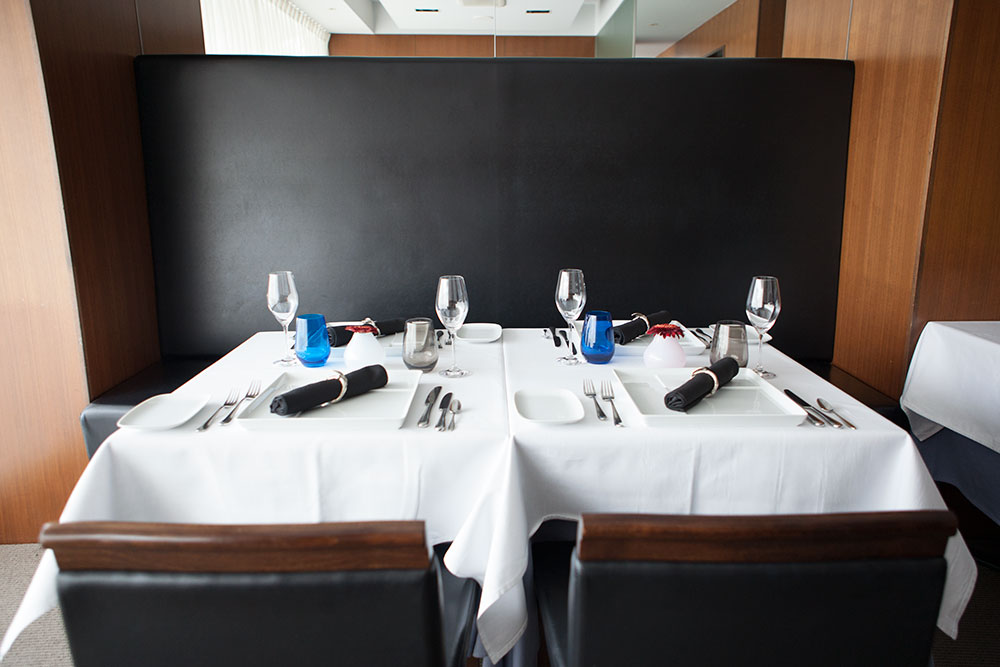
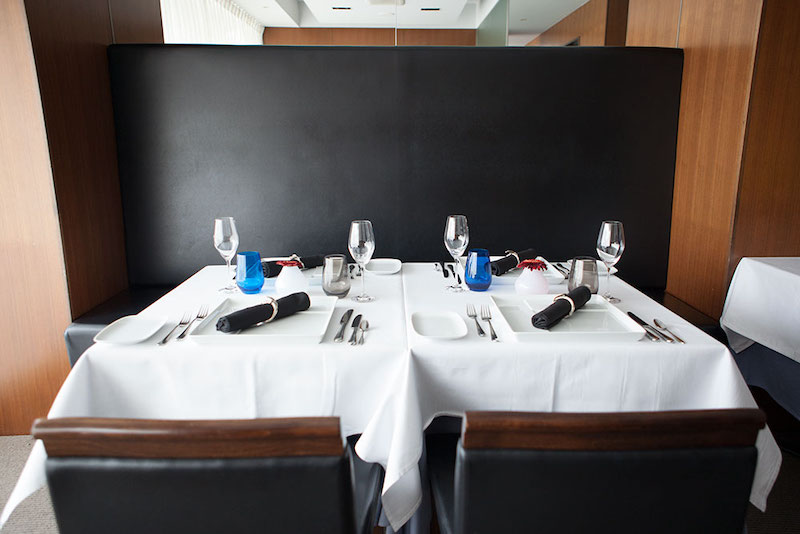
chore(): サイズを変更

diff --git a/src/template/complete.html b/src/template/complete.html
@@ -1,77 +1,77 @@
 <!DOCTYPE html>
 <html lang="ja">
-<head>
-  <meta charset="UTF-8" />
-  <title>ル ベナトン｜西宮・夙川フレンチ</title>
-  <meta
-          name="description"
-          content="西宮・夙川のフレンチレストラン「ル ベナトン」。ミシュランガイド兵庫版掲載店。ジビエ料理、ブルゴーニュワイン。フランス「食の都」ボーヌ仕込みの味をご堪能ください。"
-  />
-  <meta
-          name="keywords"
-          content="夙川フレンチ,西宮フレンチ,兵庫フレンチ,神戸フレンチ,阪神間フランチ,ブルゴーニュワイン,ブルゴーニュ料理,ブルゴーニュ,ボーヌ,黄金の丘,神戸ジビエ,西宮ジビエ,関西フレンチ,関西ジビエ,ジビエ料理,夙川ランチ,夙川ディナー,西宮ランチ,西宮ディナー,神戸ランチ,神戸ディナー"
-  />
-  <meta
-          name="viewport"
-          content="width=device-width,initial-scale=1.0,minimum-scale=1.0,maximum-scale=5.0,user-scalable=yes"
-  />
-  <meta name="format-detection" content="telephone=no" />
-  <meta name="google-site-verification" content="sf9tNhZ_bJR_c-OXC3qO63Jy3NWsoq_70XZmgZAcYQg" />
+  <head>
+    <meta charset="UTF-8" />
+    <title>ル ベナトン｜西宮・夙川フレンチ</title>
+    <meta
+      name="description"
+      content="西宮・夙川のフレンチレストラン「ル ベナトン」。ミシュランガイド兵庫版掲載店。ジビエ料理、ブルゴーニュワイン。フランス「食の都」ボーヌ仕込みの味をご堪能ください。"
+    />
+    <meta
+      name="keywords"
+      content="夙川フレンチ,西宮フレンチ,兵庫フレンチ,神戸フレンチ,阪神間フランチ,ブルゴーニュワイン,ブルゴーニュ料理,ブルゴーニュ,ボーヌ,黄金の丘,神戸ジビエ,西宮ジビエ,関西フレンチ,関西ジビエ,ジビエ料理,夙川ランチ,夙川ディナー,西宮ランチ,西宮ディナー,神戸ランチ,神戸ディナー"
+    />
+    <meta
+      name="viewport"
+      content="width=device-width,initial-scale=1.0,minimum-scale=1.0,maximum-scale=5.0,user-scalable=yes"
+    />
+    <meta name="format-detection" content="telephone=no" />
+    <meta name="google-site-verification" content="sf9tNhZ_bJR_c-OXC3qO63Jy3NWsoq_70XZmgZAcYQg" />
 
-  <meta name="twitter:card" content="summary" />
-  <meta name="twitter:title" content="ル ベナトン｜西宮・夙川フレンチ" />
-  <meta
-          name="twitter:description"
-          content="西宮・夙川のフレンチレストラン「ル ベナトン」。ミシュランガイド兵庫版掲載店。ジビエ料理、ブルゴーニュワイン。フランス「食の都」ボーヌ仕込みの味をご堪能ください。"
-  />
-  <meta name="twitter:image" content="https://www.benaton.net/images/dinner2.jpg" />
+    <meta name="twitter:card" content="summary" />
+    <meta name="twitter:title" content="ル ベナトン｜西宮・夙川フレンチ" />
+    <meta
+      name="twitter:description"
+      content="西宮・夙川のフレンチレストラン「ル ベナトン」。ミシュランガイド兵庫版掲載店。ジビエ料理、ブルゴーニュワイン。フランス「食の都」ボーヌ仕込みの味をご堪能ください。"
+    />
+    <meta name="twitter:image" content="https://www.benaton.net/images/dinner2.jpg" />
 
-  <meta property="og:title" content="ル ベナトン｜西宮・夙川フレンチ" />
-  <meta
-          name="description"
-          content="西宮・夙川のフレンチレストラン「ル ベナトン」。ミシュランガイド兵庫版掲載店。ジビエ料理、ブルゴーニュワイン。フランス「食の都」ボーヌ仕込みの味をご堪能ください。"
-  />
-  <meta
-          name="keywords"
-          content="夙川フレンチ,西宮フレンチ,兵庫フレンチ,神戸フレンチ,阪神間フランチ,ブルゴーニュワイン,ブルゴーニュ料理,ブルゴーニュ,ボーヌ,黄金の丘,神戸ジビエ,西宮ジビエ,関西フレンチ,関西ジビエ,ジビエ料理,夙川ランチ,夙川ディナー,西宮ランチ,西宮ディナー,神戸ランチ,神戸ディナー"
-  />
+    <meta property="og:title" content="ル ベナトン｜西宮・夙川フレンチ" />
+    <meta
+      name="description"
+      content="西宮・夙川のフレンチレストラン「ル ベナトン」。ミシュランガイド兵庫版掲載店。ジビエ料理、ブルゴーニュワイン。フランス「食の都」ボーヌ仕込みの味をご堪能ください。"
+    />
+    <meta
+      name="keywords"
+      content="夙川フレンチ,西宮フレンチ,兵庫フレンチ,神戸フレンチ,阪神間フランチ,ブルゴーニュワイン,ブルゴーニュ料理,ブルゴーニュ,ボーヌ,黄金の丘,神戸ジビエ,西宮ジビエ,関西フレンチ,関西ジビエ,ジビエ料理,夙川ランチ,夙川ディナー,西宮ランチ,西宮ディナー,神戸ランチ,神戸ディナー"
+    />
 
-  <meta property="og:type" content="article" />
-  <meta property="og:url" content="https://www.benaton.net/images/dinner2.jpg" />
-  <meta property="og:site_name" content="ル ベナトン｜西宮・夙川フレンチ" />
-  <meta
-          property="og:description"
-          content="西宮・夙川のフレンチレストラン「ル ベナトン」。ミシュランガイド兵庫版掲載店。ジビエ料理、ブルゴーニュワイン。フランス「食の都」ボーヌ仕込みの味をご堪能ください。"
-  />
-  <meta property="og:image" content="https://www.benaton.net/images/dinner2.jpg" />
-  <meta property="og:image:width" content="1200" />
-  <meta property="og:image:height" content="630" />
-  <meta name="robots" content="noindex">
+    <meta property="og:type" content="article" />
+    <meta property="og:url" content="https://www.benaton.net/images/dinner2.jpg" />
+    <meta property="og:site_name" content="ル ベナトン｜西宮・夙川フレンチ" />
+    <meta
+      property="og:description"
+      content="西宮・夙川のフレンチレストラン「ル ベナトン」。ミシュランガイド兵庫版掲載店。ジビエ料理、ブルゴーニュワイン。フランス「食の都」ボーヌ仕込みの味をご堪能ください。"
+    />
+    <meta property="og:image" content="https://www.benaton.net/images/dinner2.jpg" />
+    <meta property="og:image:width" content="1200" />
+    <meta property="og:image:height" content="630" />
+    <meta name="robots" content="noindex" />
 
-  <link rel="stylesheet" type="text/css" href="css/normalize.css" />
-  <link rel="stylesheet" type="text/css" href="css/module.css" />
-  <link rel="stylesheet" type="text/css" href="css/styles.css" />
-  <link rel="stylesheet" type="text/css" href="css/script.css" />
-  <link rel="icon" type="image/png" href="favicon.png" sizes="32x32" />
+    <link rel="stylesheet" type="text/css" href="css/normalize.css" />
+    <link rel="stylesheet" type="text/css" href="css/module.css" />
+    <link rel="stylesheet" type="text/css" href="css/styles.css" />
+    <link rel="stylesheet" type="text/css" href="css/script.css" />
+    <link rel="icon" type="image/png" href="favicon.png" sizes="32x32" />
 
-  <script async src="https://www.googletagmanager.com/gtag/js?id=UA-99005030-1"></script>
-  <script>
-    window.dataLayer = window.dataLayer || [];
-    function gtag() {
-      dataLayer.push(arguments);
-    }
-    gtag('js', new Date());
-    gtag('config', 'UA-99005030-1');
-  </script>
-  <script src="index.js" defer></script>
-</head>
+    <script async src="https://www.googletagmanager.com/gtag/js?id=UA-99005030-1"></script>
+    <script>
+      window.dataLayer = window.dataLayer || [];
+      function gtag() {
+        dataLayer.push(arguments);
+      }
+      gtag('js', new Date());
+      gtag('config', 'UA-99005030-1');
+    </script>
+    <script src="index.js" defer></script>
+  </head>
 
-<body>
-<header>
-  <div class="logo">
-    <a href="index.html"><img src="images/logo.png" alt="ル ベナトン｜西宮・夙川フレンチ" /></a>
-  </div>
-</header>
+  <body>
+    <header>
+      <div class="logo">
+        <a href="index.html"><img src="images/logo.png" alt="ル ベナトン｜西宮・夙川フレンチ" /></a>
+      </div>
+    </header>
     <main>
       <section>
         <div class="wrap">

diff --git a/src/template/index.html b/src/template/index.html
@@ -713,7 +713,8 @@
               <h3>本格「ボーヌ」仕込みの味<br />ヨーロッパと日本の食材で地元・夙川で提供いたします</h3>
               <div class="parenthesis">
                 <p>
-                  フランスのブルゴーニュの食の都「ボーヌ」の星付きレストラン「ル ベナトン」での4年間の修業を経て、2008年に生まれ育った夙川に、その名前を引き継いだ自らの店をオープンいたしました。ブルゴーニュはワインの名産地である黄金の丘でも知られ、ボーヌはその中心地に位置しています。2015年には「ブルゴーニュ地方のクリマ（ブドウ畑や気候）」は世界遺産に登録されました。ボーヌでは11月の第３週末には「栄光の3日間
+                  フランスのブルゴーニュの食の都「ボーヌ」の星付きレストラン「ル
+                  ベナトン」での4年間の修業を経て、2008年に生まれ育った夙川に、その名前を引き継いだ自らの店をオープンいたしました。ブルゴーニュはワインの名産地である黄金の丘でも知られ、ボーヌはその中心地に位置しています。2015年には「ブルゴーニュ地方のクリマ（ブドウ畑や気候）」は世界遺産に登録されました。ボーヌでは11月の第３週末には「栄光の3日間
                   LES TROIS
                   GLORIEUSES」と呼ばれるワインと食の祭典が催され、普段はブドウ畑に囲まれた小さな街が「フランス食の都」となります。
                 </p>
@@ -881,7 +882,8 @@
               <section class="padding">
                 <img src="images/voyage1.jpg" loading="lazy" alt="フランス料理｜パリ" title="フランス料理｜パリ" />
                 <p class="parenthesis">
-                  関西国際空港を飛び立ったエールフランス291便は12時間35分後、パリのシャルル・ド・ゴール空港に滑り込んだ。11月のしっとりした曇り空に溶けているエッフェル塔に短く「ボンジュール」とあいさつをし、オーステルリッツ駅から、かつて「ル ベナトン」のシェフ高谷慶が修業したブルゴーニュの食の都「ボーヌ」に向かう列車に乗り込んだ。数日後プジョーを運転し広大なブルゴーニュの牧草地を貫くD903号線を抜け、山裾に広がるエパニー村に到着。1850年代から続く村のハンティング協会の狩猟の見学許可がやっと出たのだった。
+                  関西国際空港を飛び立ったエールフランス291便は12時間35分後、パリのシャルル・ド・ゴール空港に滑り込んだ。11月のしっとりした曇り空に溶けているエッフェル塔に短く「ボンジュール」とあいさつをし、オーステルリッツ駅から、かつて「ル
+                  ベナトン」のシェフ高谷慶が修業したブルゴーニュの食の都「ボーヌ」に向かう列車に乗り込んだ。数日後プジョーを運転し広大なブルゴーニュの牧草地を貫くD903号線を抜け、山裾に広がるエパニー村に到着。1850年代から続く村のハンティング協会の狩猟の見学許可がやっと出たのだった。
                 </p>
               </section>
             </div>
